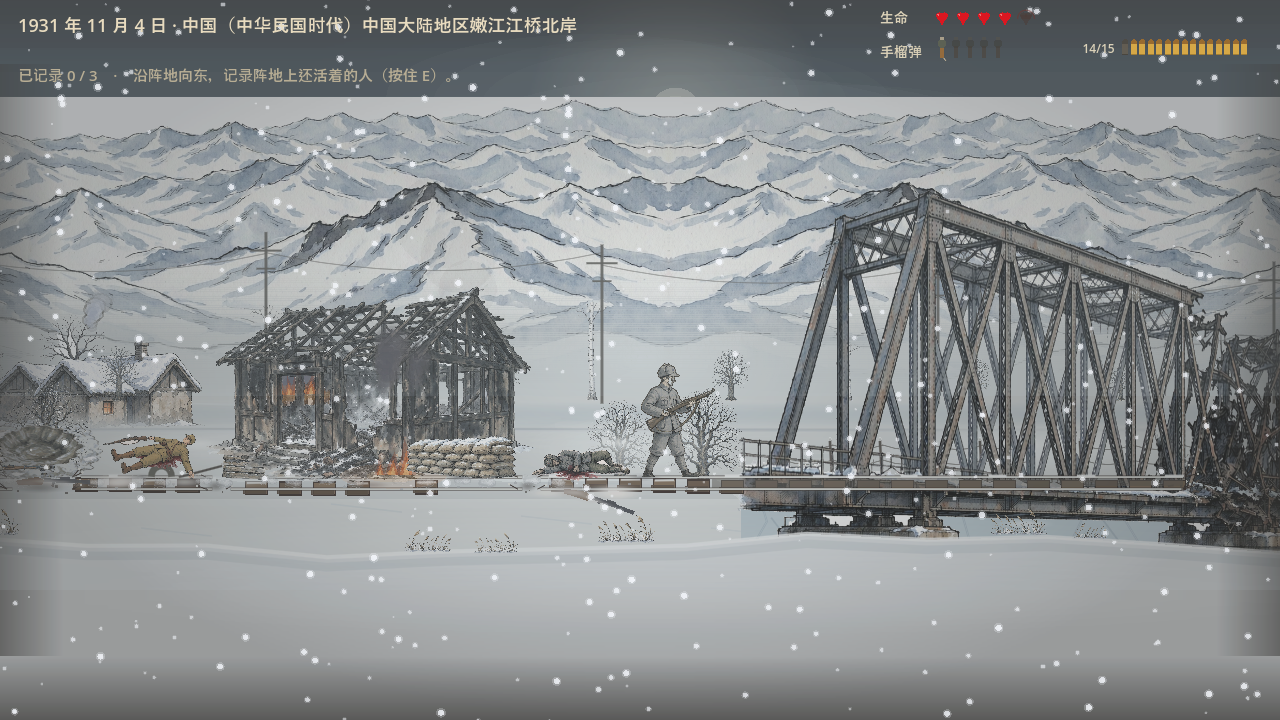
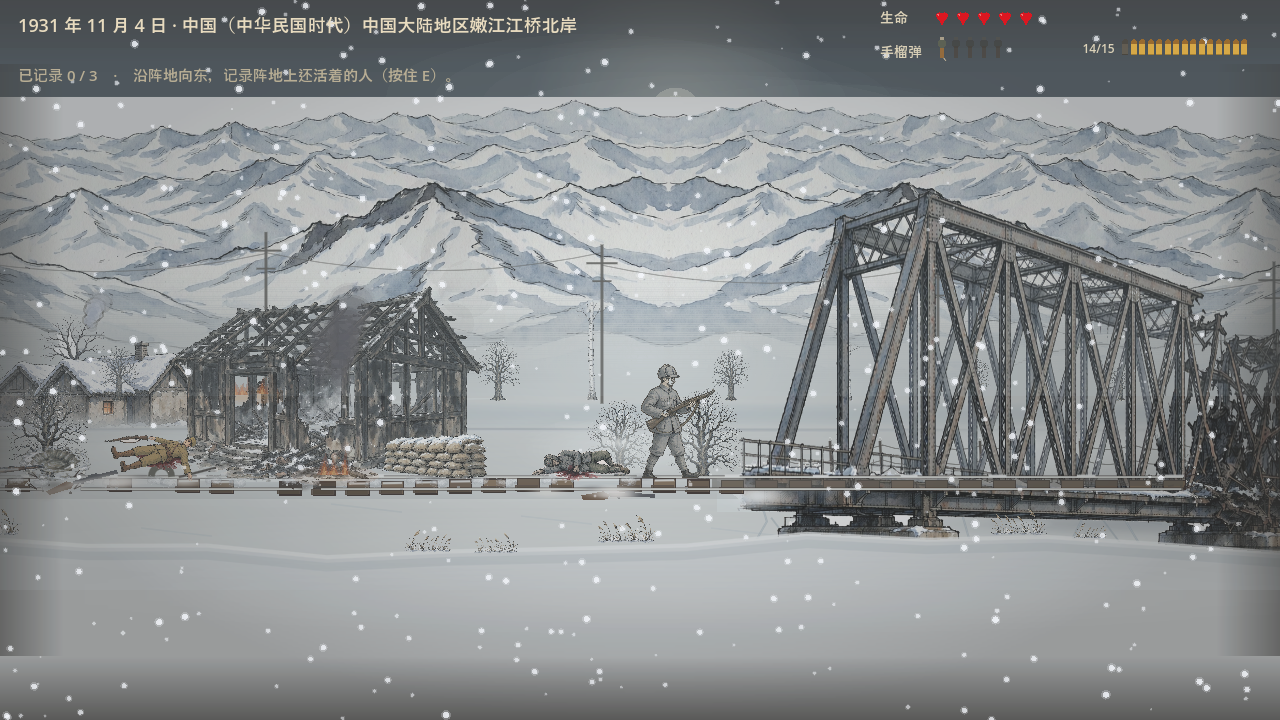
v3.25 the hard edges around the bridge
The player looked again and the bridge still did not sit in the scene:
"it still does not blend in, it looks strange and unnatural, the bridge's
background and the rails underneath it do not merge". This round was not
about the art - v3.24 settled that the painting itself is right - it was
about the three hard edges around the span, all of which read as "a
picture was laid down here".

The frozen river was a rectangle. Four straight corners, a near edge
running ruler-straight across the whole screen, and a vertical cut at the
west end right where the bridge begins. It read as a grey-blue slab lying
on the snow, not as a river. The banks are irregular now: the west bank
slants out, the east bank slants in, and the near edge is a wind-blown
wave instead of a line.

The west end of the deck was the painting's own vertical cut of steel, so
the girder hung in the air with its section showing - the clearest "this
is a texture" tell in the shot. A drift is piled against the bridge head
now, the same soft snow the level uses for every other snow lump, and the
cut is buried in it.

The bridge cast no shadow. Houses, trees, sandbag walls and bodies all
cast one; the span was the only thing standing on the ground without, so
it hovered over the river instead of standing on it. There is a soft
shadow band across the ice under the deck now.

The ice tone went one step deeper and the crust band one step brighter,
so the band under the span reads as ice.
[…]

diff --git a/scripts/JiangqiaoLevel.cs b/scripts/JiangqiaoLevel.cs
@@ -2882,14 +2882,19 @@ public partial class JiangqiaoLevel : Node2D
             }
 
             DrawRiverIce();
-            // v3.25: the span is laid down BEFORE the track now. It used to
-            // be painted over the rails, which cut the line dead in front
-            // of the bridge - the user called it "the bridge and the rails
-            // do not connect, a texture just stuck on top with nothing
-            // linking them". With the bridge down first the railway can
-            // run onto the deck and stop where the span is blown apart.
-            DrawBridge();
-            DrawRailway();
+                // v3.25: the span is laid down BEFORE the track now. It used to
+                // be painted over the rails, which cut the line dead in front
+                // of the bridge - the user called it "the bridge and the rails
+                // do not connect, a texture just stuck on top with nothing
+                // linking them". With the bridge down first the railway can
+                // run onto the deck and stop where the span is blown apart.
+                DrawBridge();
+                // the snow band that swallows the foot of the piers. Every
+                // tree and every house in this level already gets one, and
+                // the bridge without it is the one object standing in the
+                // scene with a hard cut at its base - that is the "pasted
+                // on" the player kept seeing.
+                DrawRailway();
             DrawSupplyCart();
 
             DrawCraters();
@@ -2900,18 +2905,46 @@ public partial class JiangqiaoLevel : Node2D
         private void DrawRiverIce()
         {
             // 桥下的江面（冰封）
-            var ice = new[]
-            {
-                new Vector2(4460, GroundY), new Vector2(5220, GroundY), new Vector2(5220, 780),
-                new Vector2(4460, 780),
-            };
-            DrawColoredPolygon(ice, new Color(0.72f, 0.79f, 0.82f));
+            //
+            // v3.25: this used to be a plain rectangle - four hard corners, a
+            // ruler-straight near edge running the whole width of the screen
+            // and a vertical cut at the west end. It read as a grey slab
+            // lying on the snow, not as a frozen river, and the bridge
+            // piers stood on top of it like blocks set on a table.
+            //
+            // The banks are irregular now and snow has drifted over the
+            // near edge, so there is no straight line anywhere for the eye
+            // to catch.
+            const float iceL = 4436f, iceR = 5244f;
+            const float bot = 792f;
+            var ice = new List<Vector2>();
+            // far edge, hidden under the bridge deck
+            for (float x = iceL; x <= iceR; x += 34f)
+                ice.Add(new Vector2(x, GroundY));
+            // east bank slants in
+            ice.Add(new Vector2(iceR + 30f, bot - 44f));
+            // near edge: wind-blown snow over the ice, so it is a wave
+            for (float x = iceR + 30f; x >= iceL - 30f; x -= 34f)
+                ice.Add(new Vector2(x, bot - 44f + Mathf.Sin(x * 0.019f) * 15f));
+            // west bank slants out
+            ice.Add(new Vector2(iceL - 30f, GroundY + 16f));
+            DrawColoredPolygon(ice.ToArray(), new Color(0.685f, 0.755f, 0.79f));
             // 冰面上层：更亮的冰壳（半透明白）
             DrawColoredPolygon(new[]
             {
-                new Vector2(4460, GroundY), new Vector2(5220, GroundY),
-                new Vector2(5220, GroundY + 28), new Vector2(4460, GroundY + 28),
-            }, new Color(0.88f, 0.92f, 0.93f, 0.5f));
+                new Vector2(iceL, GroundY), new Vector2(iceR, GroundY),
+                new Vector2(iceR, GroundY + 34), new Vector2(iceL, GroundY + 34),
+            }, new Color(0.90f, 0.935f, 0.945f, 0.62f));
+
+            // v3.25: the span's own shadow on the ice. Everything else in
+            // this level casts a shadow - the houses, the trees, the sandbag
+            // walls, the bodies - and the bridge was the one thing standing
+            // on the ground without one, so it hovered over the river
+            // instead of standing on it.
+            DrawSetTransform(new Vector2((iceL + iceR) * 0.5f, GroundY + 46f), 0, new Vector2(13f, 0.85f));
+            DrawTextureRect(SoftSnow.Blob(new Color(0.40f, 0.45f, 0.50f), 0.32f),
+                new Rect2(-20f, -20f, 40f, 40f), false);
+            DrawSetTransform(Vector2.Zero, 0, Vector2.One);
 
             // 冰裂缝：不规则折线（用噪声偏移中间点，不是直竖线）
             for (int i = 0; i < 14; i++)
@@ -3457,6 +3490,17 @@ public partial class JiangqiaoLevel : Node2D
                 DrawTextureRectRegion(_bridgeTex,
                     new Rect2(bx, GroundY - 1f, bw, pierH),
                     new Rect2(0f, deckRow, bsz.X, bsz.Y - deckRow));
+
+                // v3.25: snow drifted against the west end of the deck.
+                // The painting ends in a straight vertical cut of the steel
+                // and that cut is the clearest "this is a texture" tell in
+                // the whole shot - the deck looked like a strip of picture
+                // hanging in the air. A drift piled against the end is what
+                // a real bridge head looks like in a northern winter.
+                DrawSetTransform(new Vector2(bx + 24f, GroundY + 18f), 0, new Vector2(2.2f, 0.95f));
+                DrawTextureRect(SoftSnow.Blob(new Color(0.95f, 0.965f, 0.975f), 0.95f),
+                    new Rect2(-20f, -20f, 40f, 40f), false);
+                DrawSetTransform(Vector2.Zero, 0, Vector2.One);
 
                 // v3.25: the west end of the span used to die in mid air.
                 // The first concrete pier of the texture stands 46px in

diff --git a/README.md b/README.md
@@ -195,7 +195,12 @@
   - **两根钢轨一路过桥**，停在桥被炸断的地方（贴图第 870 列），断口不是干净切口，而是**扭断的钢轨头 + 碎木**——轨道是被炸断的，不是画到头了；
   - 桥前最后 150px 的枕木**不许被随机跳过**（跳过一根就会在接头处留一段空道砟，又变成"轨道断了"）；
   - 铁轨的炸毁点也收在桥前（`dmgX < BridgeDeckX - 90`），桥面上不再冒出土里长出来的扭断轨头。
-- **⑥ 接地复核**：房屋沉雪 8px、尸体贴雪、弹坑压雪、证词箱/木箱/沙袋全部走同一套影子，桥墩脚用软雪堆埋掉硬切边，本轮没有新增悬空物件。截图巡游新增一站（`capture_10c_burnedhouse.png`，烧毁屋屋内火特写），并把桥头那张图改成**定点冻结**在 x=4350（以前看跑到哪儿算哪儿，桥在画面里进进出出），13 张实机截图 0 报错；关卡图库六张重拍并把缓存戳升到 `?v=3.25`。
+- **⑥ 桥跟场景之间的三处硬边（用户复检的第二轮）**：用户原话「还是融不进去 感觉看起来怪怪的 不自然……桥的背景还有地下的铁轨 那个融合到不自然」。逐条查了桥周围的三个"贴图感"来源，全是硬边，不是画得丑：
+  - **冰封的江面是一个矩形**——四条直边，近边横贯整个屏幕是一条直线，西边在桥头竖着切一刀，整块看着像一张灰蓝色板子拍在雪地上。改成**不规则的两岸**：西岸斜切出去，东岸斜切进来，近边是风吹积雪堆出来的一道波浪；
+  - **桥面西端是贴图自己的垂直切边**——梁被齐刷刷切断悬在半空，这是全场最像"贴图"的一处。现在**桥头堆一蓬雪**（跟场景里其它雪堆同一个 `SoftSnow.Blob`），切边被雪埋掉；
+  - **桥在冰面上没有影子**——场景里房子、树、沙袋垛、尸体全都有影子，只有桥没有，所以它悬在江面上而不是踩在江面上。现在冰面上有一道横跨跨度的软影。
+  - 另外把江面的色调压深一档（0.72,0.79,0.82 → 0.685,0.755,0.79）、冰壳带加亮，让它读得出是**冰封的江**而不是白地。（桥墩的脚下本来就被前景视差层自己的雪坡切掉了——那条坡在 722，桥墩在 654 以下，天然被挡住，所以这一处**没有**再动。）
+- **⑦ 接地复核**：房屋沉雪 8px、尸体贴雪、弹坑压雪、证词箱/木箱/沙袋全部走同一套影子，本轮没有新增悬空物件。截图巡游新增一站（`capture_10c_burnedhouse.png`，烧毁屋屋内火特写），并把桥头那张图改成**定点冻结**在 x=4350（以前看跑到哪儿算哪儿，桥在画面里进进出出），13 张实机截图 0 报错；关卡图库六张重拍并把缓存戳升到 `?v=3.25`。
 
 | 项目 | 改动前 | 改动后 |
 |------|--------|--------|
@@ -207,6 +212,9 @@
 | 桥高（雪线→桁架顶） | 179px = **1.57 人高** | 286px = **2.5 人高**（桁架加深，桥墩原比例） |
 | 桥西端 | 45px 桥面悬在空雪上方 | 桥面末端落在画里自带的那座混凝土桥墩上 |
 | **铁轨与桥** | **轨道在桥前硬断，桥像另一张贴图** | **轨道铺上桥面一路过桥，在炸断处断成扭断的钢轨** |
+| **冰封的江面** | **四条直边的灰蓝矩形** | **两岸不规则、近边是风吹雪的波浪** |
+| **桥面西端** | **贴图垂直切边悬空** | **桥头堆雪，切边埋掉** |
+| **桥在冰上的影子** | **没有**（全场唯一不投影的东西） | **冰面上一道横跨跨度的软影** |
 
 | 项目 | 改动前 | 改动后 |
 |------|--------|--------|
@@ -495,7 +503,7 @@
 
 | 版本 | 要点 |
 |------|------|
-| v3.25 | 火焰分层 + 房屋人高 + 人物景深 + 桥接地 + 铁轨接桥：①**火按屋内/屋外拆层**——过去烟和火同在 `_smokeWorld`(-1) 且该层在房子前面，"屋里烧的火"反而浮在墙上；现在拆成 4 个火焰层 + 1 个烟柱层（地面 -10 / 靴印 -8 / 远景屋内火 -7 / 远景房 -6 / 远景屋外火 -5 / 近景屋内火 -4 / 近景房 -3 / 近景屋外火 -2 / 烟柱 -1 / 人 0），**屋内火在房子图层之后**（洪水填充扫出贴图里真实挖穿的窗口洞，火从洞里透出、墙框压在火前），**屋外火在房子图层之前**；②**没烧毁的房子墙高重做到 1.5 人高**——v3.19 那次的 1.5 人高是配 0.87 缩放的兵算的，兵改回 1.06 后墙没跟着改，房子缩成 1.02 人高（人跟农舍一样高）；现按檐口行重算宽度 390→557 / 412→583，**烧毁的房子尺寸不变**；③**敌人按 lane 分尺寸**（近 1.00 / 中 0.92 / 远 0.82，脚底不动），实机 114/105/92px；④**桥按 2.5 人高重做并坐到地上**——贴图 1530×812 而跨度只有 800px，等比放大 1.55× 会把烧毁桁架顶出关卡，故桁架纵向加深（0.827）而桥墩保持原比例，接缝落在桥面行；西端悬空不再用灰盒子补（v3.15 那个"西桥台"正是被说成"雪地里一个灰方块"的），改为**整桥东移 48px**，桥面末端落到画里自带的那座混凝土桥墩上；⑤**铁轨接上桥**——用户复检的最后一项「桥跟铁轨感觉接不上……突然间一个贴图贴在上面」：根因是**画序**（铁轨先画、桥后画，桥把轨道末端盖掉了），改成**桥先画、铁轨后画**，枕木节奏一路铺上桥面、两根钢轨过桥、在贴图第 870 列（桥被炸断处）断成**扭断的钢轨头 + 碎木**；桥前最后 150px 的枕木不再随机跳过（跳过一根就在接头处留一段空道砟，又变成"轨道断了"）；铁轨炸毁点收在桥前，桥面不再冒出土里长出来的轨头；⑥接地复核无新增悬空物件，截图巡游加一站烧毁屋内火特写并把桥头那张定点冻结在 x=4350，13 张 0 报错 |
+| v3.25 | 火焰分层 + 房屋人高 + 人物景深 + 桥接地 + 铁轨接桥：①**火按屋内/屋外拆层**——过去烟和火同在 `_smokeWorld`(-1) 且该层在房子前面，"屋里烧的火"反而浮在墙上；现在拆成 4 个火焰层 + 1 个烟柱层（地面 -10 / 靴印 -8 / 远景屋内火 -7 / 远景房 -6 / 远景屋外火 -5 / 近景屋内火 -4 / 近景房 -3 / 近景屋外火 -2 / 烟柱 -1 / 人 0），**屋内火在房子图层之后**（洪水填充扫出贴图里真实挖穿的窗口洞，火从洞里透出、墙框压在火前），**屋外火在房子图层之前**；②**没烧毁的房子墙高重做到 1.5 人高**——v3.19 那次的 1.5 人高是配 0.87 缩放的兵算的，兵改回 1.06 后墙没跟着改，房子缩成 1.02 人高（人跟农舍一样高）；现按檐口行重算宽度 390→557 / 412→583，**烧毁的房子尺寸不变**；③**敌人按 lane 分尺寸**（近 1.00 / 中 0.92 / 远 0.82，脚底不动），实机 114/105/92px；④**桥按 2.5 人高重做并坐到地上**——贴图 1530×812 而跨度只有 800px，等比放大 1.55× 会把烧毁桁架顶出关卡，故桁架纵向加深（0.827）而桥墩保持原比例，接缝落在桥面行；西端悬空不再用灰盒子补（v3.15 那个"西桥台"正是被说成"雪地里一个灰方块"的），改为**整桥东移 48px**，桥面末端落到画里自带的那座混凝土桥墩上；⑤**铁轨接上桥**——用户复检的最后一项「桥跟铁轨感觉接不上……突然间一个贴图贴在上面」：根因是**画序**（铁轨先画、桥后画，桥把轨道末端盖掉了），改成**桥先画、铁轨后画**，枕木节奏一路铺上桥面、两根钢轨过桥、在贴图第 870 列（桥被炸断处）断成**扭断的钢轨头 + 碎木**；桥前最后 150px 的枕木不再随机跳过（跳过一根就在接头处留一段空道砟，又变成"轨道断了"）；铁轨炸毁点收在桥前，桥面不再冒出土里长出来的轨头；⑥**桥跟场景之间的三处硬边**（用户第二轮复检「还是融不进去」）：冰封的江面原是**四条直边的灰蓝矩形**（近边横贯屏幕是一条直线、西边在桥头竖着切一刀），改成**不规则两岸 + 风吹雪的波浪近边**；**桥面西端是贴图自己的垂直切边**（梁齐刷刷切断悬空），现在桥头**堆一蓬雪**把切边埋掉；**桥在冰面上没有影子**（全场唯一不投影的东西，所以它悬在江面上而不是踩在江面上），冰面补上一道横跨跨度的软影；⑦接地复核无新增悬空物件，截图巡游加一站烧毁屋内火特写并把桥头那张定点冻结在 x=4350，13 张 0 报错 |
 | v3.24 | 桥还原原图 + 碉堡移除：①v3.21–v3.23 连着三轮改造桥（压色阶/去饱和/叠蓝雾/补墨线/改中性色），**每一轮都更远离关卡**——原图的铆接钢桁架本来就跟焦黑木屋、雪山同一套语言，是我多此一举去改它；现在 `bridge.png` 原样绘制，`bridge_painted.png` 删除；②尸体后面的「四四方方格子」= v3.22 的沙袋面，从 1449px 沙袋图裁 477×299 压到 96×60，**4×2.6 颗沙袋挤进 96px 每颗成小方块**，尸体正好躺在上面像床垫；③碉堡从 v3.17 到现在换过四种做法（纯灰梯形→平涂贴图→裁片贴图→预缩贴图）**每一种都被玩家指出不对**，跟这个场景的美术语言合不来，且关卡工事已够多（四道沙袋墙/四段铁丝网/弹坑/战壕/烧毁房/桥）→ 整体移除，尸体落回开阔雪地；④尸体回 3870 仰卧；⑤地图五图差异 0.00%–0.19% 未动，六张关卡图重拍 |\n| v3.23 | 碉堡糊成灰板 + 桥的调子：①尸体（3870 日军仰卧）背后那块是 3835 的碉堡，v3.22 用 `DrawTextureRectRegion` 从 1449px 沙袋图裁 **701px** 塞进 **91px** → GPU 取最高层 mip，整个碉堡塌成**边缘笔直的淡灰方板**；改为把沙袋面预缩成 `bunker_face.png` 96×60、游戏里近 1:1 绘制；②第一个碉堡在 1550，v3.19 放大房子后 f2 占位变 1294–1644，碉堡（1543–1632）**整块埋在房子底下**，现挪到 **800** 的开阔雪地；③桥太淡是**明度**问题：钢梁 (172,178,182) vs 雪地 (181,185,185)，和雪一样亮所以溶进背景 → 改成**钢/雪分离**映射，钢 118–160（= 雪山暗部实测 124,132,138）、雪 228–240；④按 alpha 外扩 2px 给每根钢梁画 **(50,53,60)** 墨线（全场是墨线+水彩，桥没有墨线才像 3D 渲染）；⑤色相从 (144,152,165) 改成中性冷灰（场景实测 107,109,109 / 133,134,132）；⑥弹坑 512px→~100px、靴印 202px→26px 同样有 mip 问题，各自预缩到 160×139 / 64×37，靴印墨线柔化；⑦地图五图差异 0.00%–0.19% 未动，六张关卡图重拍 |\n| v3.22 | 碉堡重做 + 弹坑 + 足迹 + 桥回炉：①v3.21 桥的明暗压太扁成了**纸板剪影**（用户贴图回来），色阶压缩放松（γ0.44→0.72、幅度 0.27→0.44、模糊 2.8→1.8）恢复体积；②**「金字塔」真凶是碉堡不是桥**——`DrawColoredPolygon` 画的纯灰梯形 + 硬边黑矩形射击孔，是全场唯一没贴图的物件 → 改用 `sandbags.png` 真沙袋贴图（`DrawTextureRectRegion` 裁一段保持原始大小）+ 柔和熏黑射击孔 + 软斑积雪；③`crater.png` 坑底是深蓝且被压到 45% 高，看着像一滩水 → 素材重映射（去蓝 55%、坑底偏暖、坑口冷白）+ 压缩放松到 58%；④`footprint.png` 整张是「一块雪斑+一个靴印」，26px 下只剩淡蓝雪斑，像一排水洼 → 切出靴印 `bootprint.png` 重映射成雪地压痕；⑤自己的 bug：`SoftSnow.Blob` 是 40×40 单位精灵，缩放要除以 40，写错导致 **1600×124 大白片盖住整个碉堡**；⑥地图五图差异 0.00%–0.17% 未动，六张关卡图重拍 |\n| v3.21 | 尸体躺平 + 桥的画风：①`corpse_ija_supine` 的**身体主轴实测 +18.10°**（用 alpha 轮廓二阶矩量），v3.19 的补偿数字取自底边轮廓扫描（10.66°）且**符号反了**，等于把角度叠上去 → 渲染斜近 29° 像半坐的伤兵；现在按主轴角抵消（旋转取反号、镜像时再翻一次）；②旋转支点从身体一端改到**身体正中**（原代码注释写的是 center，写的却是 `HeadSign()*len*0.5`），脚那头不再被甩离雪面；③五具预置尸体的姿势**改为关卡写死**（1270 俯卧/2505 仰卧/1550 俯卧/3870 仰卧/4300 俯卧），此前每次开局重掷导致「这局看着对、下局就坏了」；④桥贴图 `bridge.png` 是**写实 3D 渲染**，跟全场水彩不搭（玩家说的「金字塔」= 桁架 + 桥墩三角破冰尖角）→ 预处理 `bridge_painted.png`：模糊 + 明暗压色阶（γ0.44）+ 淡冷灰（近雪面更雾）+ 叠 7% 淡蓝雾；⑤地图五图差异 0.00%–0.19% 未动，六张关卡图重拍 |\n| v3.20 | 门口的黑色平板（门标记画成了贴纸）：①`EnterableHouse` 里 v3.5 起画的那块 `DrawRect` 近黑板是全场唯一平涂色块，格格不入；②它正好盖住贴图里画好的门（完好房的棕色木板门带圆把手、残破房撕开的门洞透白光），黑板高度只有门洞七成，门洞上沿露在黑板上方看着像塞了块板；③平板按 `_w*0.18` 摆而完好房的门画在 0.479–0.531，位置也对不上 → 整块删掉，门口改为按贴图逐张记的 `DoorSpec`（完好房 0.492 / 残破房 0.200），`DoorX` 触发点同步修正；④烧毁房架没门可寻，把完好房贴图里那扇木板门切出成 `door_leaf.png` 挂回焦黑门框（同笔触、略倾斜、熏黑一点）；⑤地图五图差异 0.00%–0.15% 未动，六张关卡图重拍 |\n| v3.19 | 桥面白线 + 尸体摆平 + 房屋比例 + 辎重车画风：①删掉 DrawBridge 里那条从 4406 画到 5194 的 3px 纯白直线（浮在桁架上方、与雪山不同调的亮streak）；②尸体贴图自身就带 -4.1°~+10.7° 倾角，代码又叠最多 12.6° 随机旋转 → 双重倾斜像从坡上滑下来，现用 `_texTilt` 抵消贴图倾角、随机收到 ±3.4°；③远景屋重排（house_intact@285 与 village@470 只差 1px、屋顶咬合；@2990 与 house_posts@3040 重叠 30px）→ 全部留出间隙；④完整房墙高实测只有士兵 1.03 倍（v3.5 量的是到屋脊不是到墙）→ 房放大 1.25×、兵缩到 0.87（108→94px），墙高 1.49 倍人高，沙包 54→47、碉堡 96×62→84×54、尸体长度同步缩小，房屋位置微调 40–64px 不再重叠；⑤辎重车整只平涂矩形+纯色圆盘 → 车身改用 crate.png 贴图（同一支画笔）+ 辐条轮 + 断车把，并从独立节点改到 GroundArt 里跟弹坑木箱一起画，轨道从身后过；⑥地图五图零差异未动 |
 | v3.18 | 白边根修 + 位置重排：①抠图残留的**轮廓白边**（RGB 仍留 (255,255,255)，背景顺抗锯齿边渗成一指宽纯白带）→ 距离变换 + 纯白判据，21 张贴图全清，榆树一棵 68330 px；②尸体 #5 从桥跨度内（4400–5200）挪到 x=4300 开阔雪地并下沉到路肩，铁轨从身后过；③撤掉整垛堵在桥头（4400/桥台 4386–4470）的沙包 4388；④铁丝网桩改用共享的沙包基底表，落进沙包的桩自动跳过、桥头段不越 4360；⑤辎重车从视差层搬到世界层，重画成木纹车斗 + 六辐条轮 + 车把 + 断轴杆，缩到玩家身高四分之一，站在关卡开头 x=280；⑥丢弃步枪倾角 ±0.85→±0.38 弧度，不再像插着的木棍；⑦全资产连通域普查 + 整关 12 机位实机扫描，榆树残留白块 22→0；地图五图零差异未动 |
 | v3.17 | 铁轨爬桥 + 白底收尾 + 尸体/碉堡比例修正：①铁轨与桥面错位 40px 的真 bug（代码按「贴图 53% 处是桥面」摆放，实测承轨面在第 355 行）→ 改为把第 355 行对到轨道线，铁轨连续爬上桥；②tree_elm 树冠间 9.4 万 px 不透明纯白 → 用「离枝干 > 6px 的亮像素一律抠掉」判据，树冠透空、枝干与枝上雪絮保留；③桁架里 13225 px 近白碎点与半透明白纱再清 22953 px；④尸体长度收 10%（122-138 → 110-124，与士兵身高相当）；⑤碉堡放大 56×38 → 96×62（齐胸高）并加混凝土接缝与污渍，不再是平涂灰板；⑥废弃辎重车整体下沉 30px，轮子陷入雪里 6px；⑦地图五图零差异未动 |
